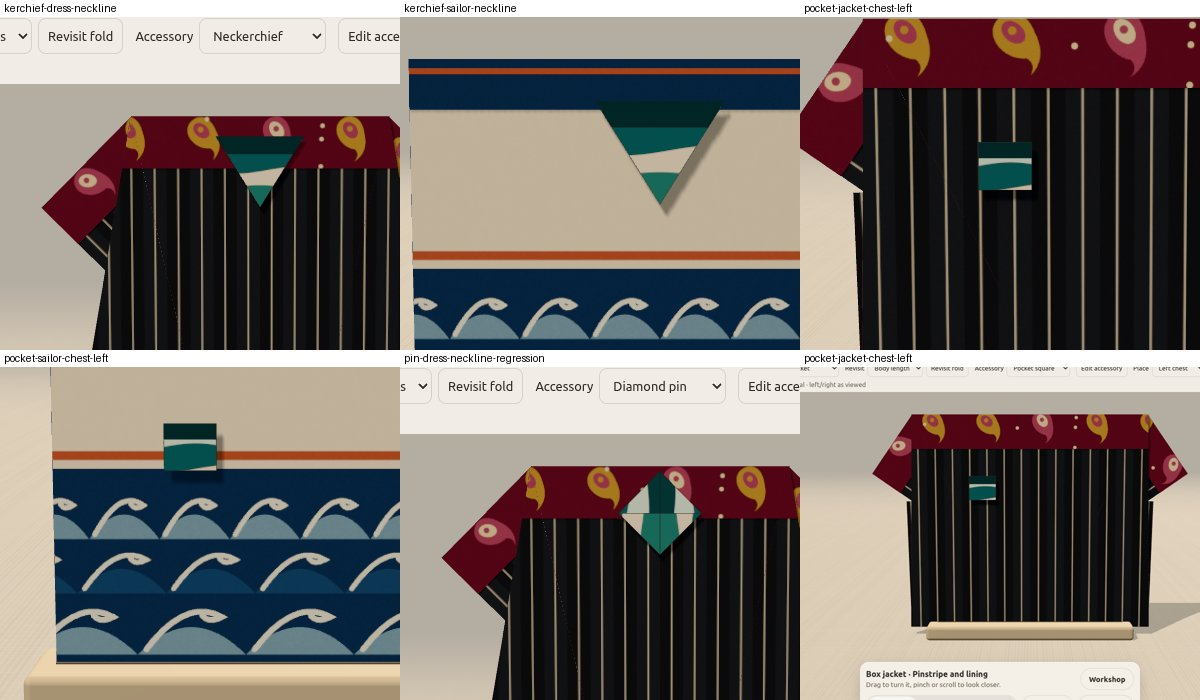
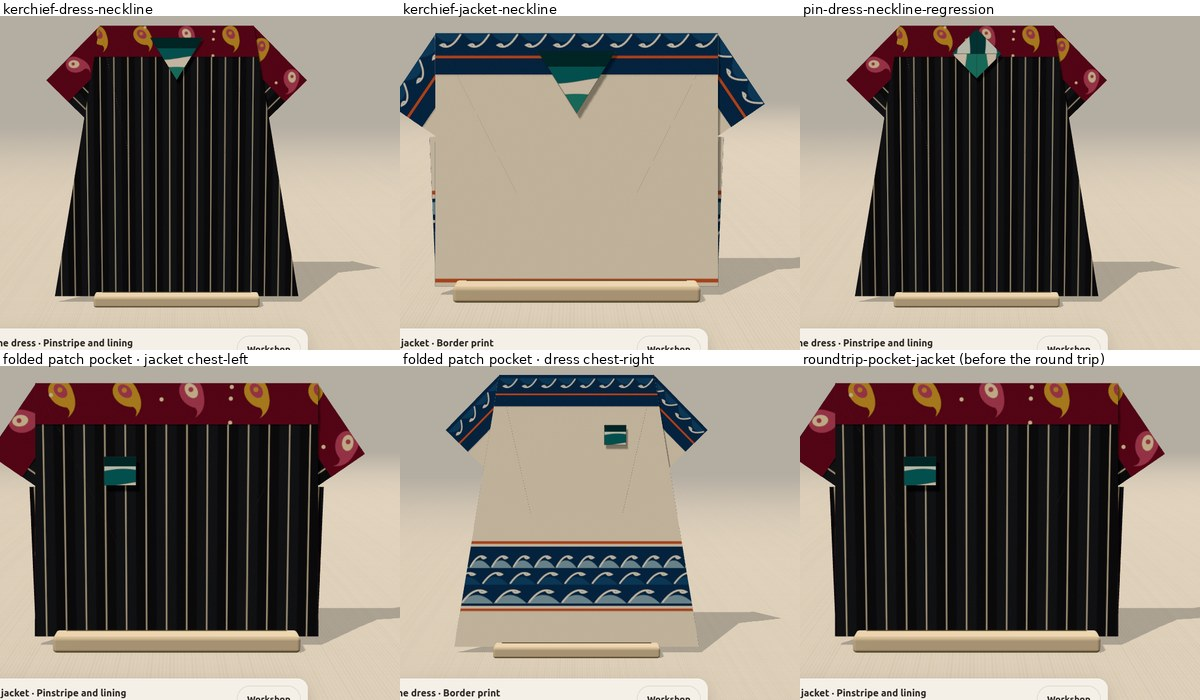
Astra follow-up: browser review, notes and contact sheets

diff --git a/docs/geometry-collection/drafts/NOTES.md b/docs/geometry-collection/drafts/NOTES.md
@@ -1,7 +1,9 @@
 # Drafts: papers, fold choices, sailor-collar top, neckerchief and pocket square
 
-**Proposal only.** This is branch `drafts/papercouture-drafter-20260930`, taken from
-`feature/geometry-collection-20260930` (PR #10). Charles asked for these drafts. Nothing
+**Proposal only.** First drafted on branch `drafts/papercouture-drafter-20260930` (PR #11), taken from
+`feature/geometry-collection-20260930` (PR #10). The follow-up branch
+`drafts/papercouture-drafter-astra-followup` applies Astra's review of PR #11; see
+[Astra follow-up](#astra-follow-up) at the end. Charles asked for these drafts. Nothing
 here is accepted until he reviews it in the browser. All of it uses the existing fold and turn
 ops, as valley folds with explicit turn-overs. There is no engine change, no painted fold, no
 slider and no new primitive. Every default stays at baseline parity.
@@ -14,11 +16,11 @@ papers below as a separate request, so they are included here as proposals.
 | Paper: Pinstripe and lining | Passes checks |
 | Paper: Border print | Passes checks |
 | Pleated skirt: shallow / classic / deep pleats | Passes checks |
-| Box jacket: plain / turned cuffs | Passes checks. **Partially meets the brief**: the turned cuff shows print, not the reverse |
-| Sailor-collar top | Passes checks. **Partially meets the brief**: sleeveless box, and the shoulder fold was removed |
+| Box jacket: plain / printed turned corners | Passes checks. **Partially meets the brief**: the turned corner shows print, not the reverse. Now named and described that way at the choice |
+| Sailor-collar top | **Parked as a study** (not selectable). Passes geometry checks, but the front is a plain rectangle with no neckline or shoulders |
 | Neckerchief (neckline) | Passes checks |
-| Pocket square (chest-left / chest-right) | Passes checks as a flat "TV fold". The pointed version was removed |
-| Pinafore (fallback) | Not attempted, because the sailor top passed |
+| Folded patch pocket (was "Pocket square"; chest-left / chest-right) | Passes checks as a flat "TV fold" patch. The pointed version was removed |
+| Pinafore (fallback) | Not attempted |
 
 ## Papers
 
@@ -55,7 +57,10 @@ Both papers are registered in `PAPERS` before the diagnostic paper. Their swatch
 - A reach of 0.11 or more breaks the rule that grouped folds must move separate paper, so the margin is small.
 - The two flaps are small, so the existing FoldHandles give them 44px grips at 1280×800 and at 390×844. The browser review asserts this.
 
-## Sailor-collar top (`src/fold/sailorTop.ts`, design `sailor`)
+## Sailor-collar top (parked study: `docs/geometry-collection/drafts/sailor/sailorTopStudy.ts`)
+
+Parked after Astra's review; see the follow-up section. The description below is kept as the study record.
+`sailor-top.jpg` shows the study as it rendered when it was selectable.
 
 Six steps:
 1. `sailor-band`: fold the top half down onto the print.
@@ -81,16 +86,18 @@ Six steps:
 
 Pin and bow keep their original pieces, scales and bow offsets. The registry adds allowed positions:
 - Kerchief: neckline only.
-- Pocket: chest-left or chest-right only.
+- Folded patch pocket: chest-left or chest-right only.
 - Pin and bow: unrestricted.
 
 The studio disables an accessory type when a garment has none of its positions (the skirts have no neckline or chest). If the current position is not allowed, it falls back to the first allowed one.
 
 - **Neckerchief** (`src/fold/neckerchief.ts`, 5 steps, scale 0.17): band y = 0.6 → turn → left and right corner folds as separate ops, because the flaps overlap → turn to the front. The result is a printed triangle hanging from a reverse neckband.
-- **Pocket square** (`src/fold/pocketSquare.ts`, 5 steps, scale 0.14): band y = 0.7 → turn → sides ±0.5 → bottom y = −0.2 → turn. The result is a printed pocket with a straight reverse band on top (a "TV fold").
+- **Folded patch pocket** (`src/fold/pocketSquare.ts`, id `pocket`, 5 steps, scale 0.14): band y = 0.7 → turn → sides ±0.5 → bottom y = −0.2 → turn. The result is a printed pocket with a straight reverse band on top (a "TV fold").
   - Folding the two top corners down to a point was tried and removed. The corners are four layers deep by then, and the gap was 0.0605 against the 0.044 limit.
 
-## Verification (browser only; no real phone, Safari or physical paper)
+## Verification at PR #11 (browser only; no real phone, Safari or physical paper)
+
+This section describes PR #11. The follow-up's changed counts and checks are listed at the end.
 
 - `npm run typecheck`: passes.
 - `npm test` passes:
@@ -116,7 +123,7 @@ The studio disables an accessory type when a garment has none of its positions (
   
   There were no page errors. Contact sheets are in this directory.
 
-## Open questions for Charles
+## Open questions for Charles (PR #11; see the follow-up for their status)
 
 1. Cuffs: is a small **printed** turned-back corner acceptable? If not, the choice should be parked. The engine can't show a reverse cuff without a trapped or torn fold.
 2. Pleats: three depths, or just classic and deep? Shallow shows no reverse.
@@ -124,3 +131,43 @@ The studio disables an accessory type when a garment has none of its positions (
 4. Accessory position rules: is kerchief-at-neckline-only and pocket-at-chest-only right? Kerchief and pocket scales (0.17 and 0.14) are guesses.
 5. Papers: the batch brief said no more papers. Keep both, one, or neither?
 6. Should the pocket square use its own paper default? It currently uses the shared accessory paper, like the pin.
+
+## Astra follow-up
+
+Branch `drafts/papercouture-drafter-astra-followup`, off PR #11's head `caecb0f`. It applies
+Astra's review comment on PR #11 (review of head `caecb0f` against merge-base `82589c0`). There are no engine
+changes, no new fold primitives and no painted folds. Defaults keep baseline parity (the classic
+pleat fingerprint and plain-cuff parity asserts still pass).
+
+| Astra point | Status | What changed |
+| --- | --- | --- |
+| Keep both papers (owner scope decision) | Kept, no change | Whether both belong in the catalogue is still Charles's call |
+| Keep all three pleat depths, Classic default | Kept, no change | - |
+| Refine cuffs: name/describe them as printed turned sleeve corners at the choice | Addressed | The choice is now **Sleeve ends** with options *Plain* / *Printed corners*. The legend reads "Sleeve ends: plain, or small turned corners that show the print". The reveal hint, the fold title ("Turn back the sleeve corners") and hint, and the garment name ("Box jacket, turned sleeve corners") all say it is a printed corner, not a reverse cuff band. The URL value `cuffs=turned` and the geometry are unchanged. If a reverse band is required, this choice should be parked (see open questions) |
+| Park the sailor top as a selectable garment | Addressed | Removed from `GarmentId`, `GARMENTS`, `buildGarment`, the anchors and `attachmentSize`. The builder moved to `docs/geometry-collection/drafts/sailor/sailorTopStudy.ts`, with its old anchors kept as `SAILOR_STUDY_ANCHORS`. `check-drafts.ts` and `check.ts` still run its geometry gates, and assert that it is not selectable. `?design=sailor` now opens the dress, which `check-collection.ts` and the browser review assert. Re-entry needs a recognizable front neckline/shoulder treatment under the existing continuity and hinge gates |
+| Neckerchief: "Tie it on" -> "Place it" | Addressed | The final hint now reads "Place it at the neckline; it is not knotted or locked on." The band hint says "folded neckband" (it said "rolled") |
+| Pocket semantics: patch-pocket motif, not a tucked hankie | Addressed | Display name **Folded patch pocket** (id `pocket` and file name unchanged). The hints describe a printed patch that lies flat on the chest, with nothing tucked into the garment. No pocket mechanism was added |
+| P3: accessory selector after a garment round trip | Addressed | `StudioControls` now remembers a selection that was displaced by the availability fallback, and restores it when that accessory is available again. A deliberate change in the selector clears the memory, so the user's own choice wins. The browser review walks jacket -> wrap skirt (finish) -> jacket (finish) for the neckerchief and the patch pocket and expects the kept item with **Edit accessory**. It also checks that a Two-piece bow deliberately chosen on the skirt stays selected (**Fold accessory**) back on the jacket. With the old `studioControls.ts` the same review fails at the round trip. `check-drafts-review.cjs` also now declares `errors` outside the async body, because its final catch could not report them |
+
+Counts after parking: 22 supported constructions (was 23), 99 decision transitions and 263 attachment placements (was
+278; the sailor's 15 are gone).
+
+Contact sheets refreshed: `fold-choices.jpg` (the cuff sheet now shows the choice copy at 390x844),
+`accessories.jpg` (sailor cells replaced by jacket and dress placements) and the new
+`accessory-roundtrip.jpg`. `papers.jpg` is unchanged because the paper renders did not change.
+`sailor-top.jpg` is kept as the parked study's record.
+
+Checks run on this branch (Node 24.21, headless Chromium with software WebGL; no real phone,
+Safari or physical paper): `npm run typecheck`, `npm test`, `node --import tsx scripts/check-drafts.ts`,
+`npm run build -- --base /play/paper-couture/`, and `scripts/check-drafts-review.cjs`. All passed. The headless review was also run against the old `studioControls.ts` as a control: it fails at the neckerchief round trip (selector shows Diamond pin / Fold accessory).
+
+### Open questions after the follow-up
+
+1. Cuffs: is a clearly labelled **printed** turned corner acceptable? If a reverse-colour cuff band
+   is required, Astra and I agree the choice should be parked. The engine cannot fold one without
+   trapping or tearing paper.
+2. Papers: keep both, one, or neither? This is still your scope decision.
+3. Sailor top: now parked. Re-entry needs a front neckline or shoulders. The shoulder-triangle
+   fold failed the hinge gate (0.083 against the 0.044 limit), and I did not relax that gate.
+4. Patch pocket: is "Folded patch pocket" the right name? A pocket square that tucks into a pocket
+   would need a pocket mechanism in the garment, which is out of scope here.
